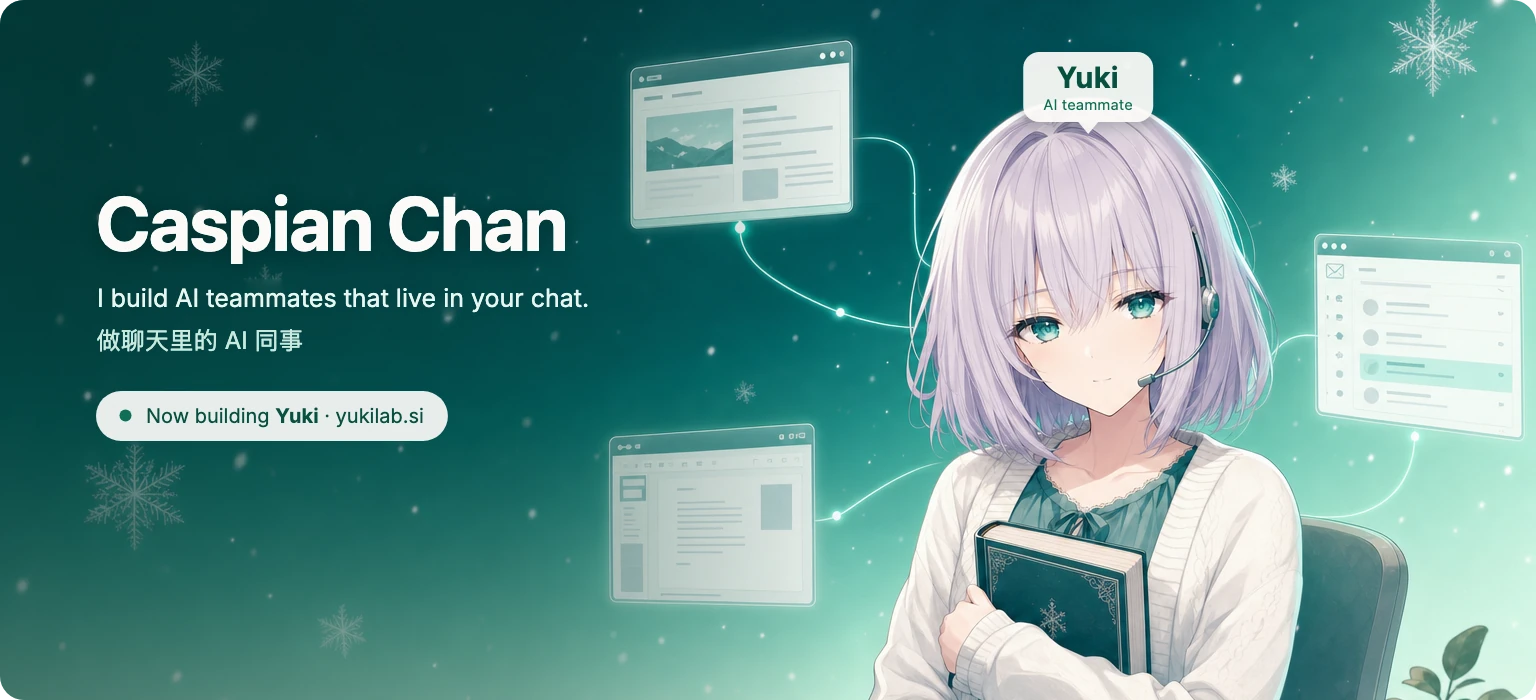
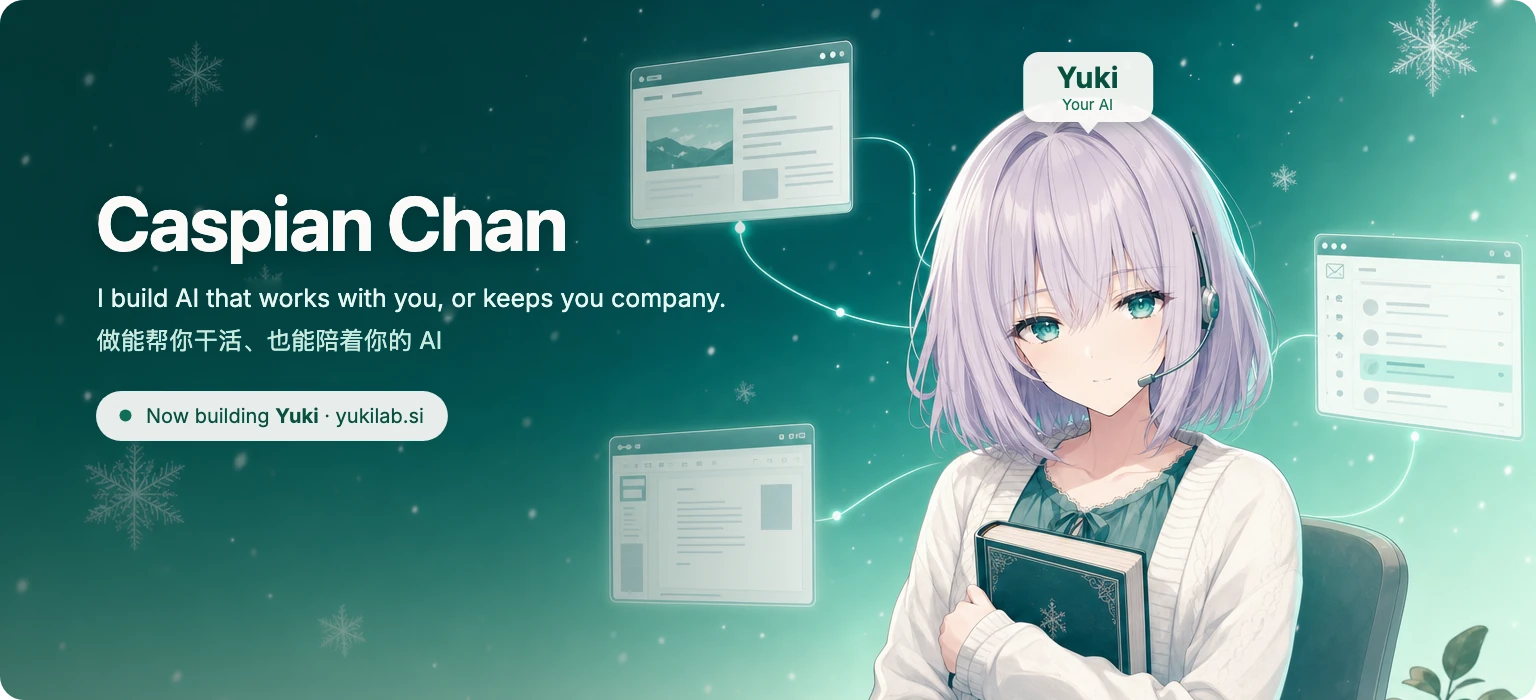
Yuki: your AI in your chat, for work or company
- Banner words: "I build AI that works with you, or keeps you company";
  the name tag over Yuki now says "Your AI".
- Now building: Yuki says it the new way, in English, Chinese and one line of
  Japanese: tell it who to be, then raise it your way.
- The link line adds 日本語, for the Japanese README.

Changed region(s): [[0.0625, 0.39, 0.4688, 0.51], [0.6875, 0.12, 0.75, 0.18]]

diff --git a/README.md b/README.md
@@ -1,16 +1,18 @@
 <p align="center">
-  <a href="https://yukilab.si"><img alt="Caspian Chan. I build AI teammates that live in your chat. Now building Yuki at yukilab.si." src="assets/banner-yuki-chat.webp" width="100%"></a>
+  <a href="https://yukilab.si"><img alt="Caspian Chan. I build AI that works with you, or keeps you company. Now building Yuki at yukilab.si." src="assets/banner-yuki-chat.webp" width="100%"></a>
 </p>
 
 <p align="center">
-  <strong><a href="https://yukilab.si">Try Yuki</a></strong> &nbsp;·&nbsp; <a href="https://github.com/caspianchan31/yuki">Source code</a> &nbsp;·&nbsp; <a href="https://github.com/caspianchan31/yuki/blob/main/README.zh-CN.md">中文介绍</a>
+  <strong><a href="https://yukilab.si">Try Yuki</a></strong> &nbsp;·&nbsp; <a href="https://github.com/caspianchan31/yuki">Source code</a> &nbsp;·&nbsp; <a href="https://github.com/caspianchan31/yuki/blob/main/README.zh-CN.md">中文介绍</a> &nbsp;·&nbsp; <a href="https://github.com/caspianchan31/yuki/blob/main/README.ja.md">日本語</a>
 </p>
 
 ### Now building: Yuki
 
-**AI teammates in your chat.** Open it and Yuki is already there: tell it what you need in one sentence. Add teammates when you want help and put them in a group; they hand work to each other where you can see it, and come to you only when something needs your decision. The core is source-available, so you can run it on your own machine.
+**Your AI, in your chat. It works with you, or keeps you company.** Open it and Yuki is already there: tell it who to be in one sentence, then raise it your way. Add more when you want help and put them in a group; they hand work to each other where you can see it, and come to you only when something needs your decision. The core is source-available, so you can run it on your own machine.
 
-**聊天里的 AI 同事。** 打开就有 Yuki，一句话告诉它做什么；需要帮手就加成员、拉进群，它们在对话里互相交接，只有要你拍板的事才来找你。核心源码公开，可以跑在你自己的电脑上。
+**住在聊天里的 AI，能帮你干活，也能陪着你。** 打开就有 Yuki，一句话告诉它做谁，越养越懂你；需要帮手就再加几个、拉进群，它们在对话里互相交接，只有要你拍板的事才来找你。核心源码公开，可以跑在你自己的电脑上。
+
+**チャットに住む、あなたのAI。** 仕事を手伝い、そばにもいてくれる。ひとことで性格を決めて、「うちの子」に育てよう。
 
 ### Mac apps
 
